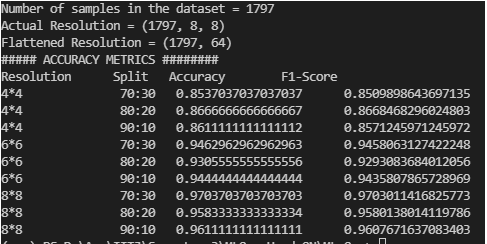
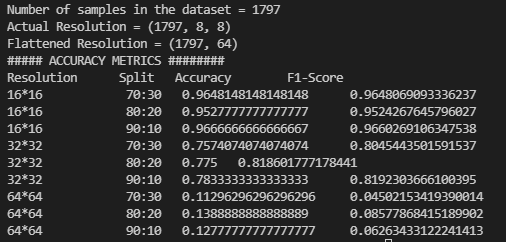
Made changes

Changed region(s): [[0.0, 0.0, 1.0, 1.0]]

diff --git a/quiz.py b/quiz.py
@@ -25,7 +25,7 @@ print("Flattened Resolution =", data.shape)
 #data4 = np.resize(digits.images, (1797, 4,4))
 #print(data4.shape)
 
-resolution = [4,6,8]
+resolution = [16, 32, 64]
 splits = [0.7,0.8,0.9]
 accuracy = []
 f1sc = []
@@ -71,12 +71,12 @@ for res in resolution:
             sp = "80:20"
         else:
             sp="90:10"
-        if res == 4:
-            re = "4*4"
-        elif res == 6:
-            re = "6*6"
+        if res == 16:
+            re = "16*16"
+        elif res == 32:
+            re = "32*32"
         else:
-            re = "8*8"
+            re = "64*64"
         print(re,"\t\t",sp,"\t",accuracy[i],"\t",f1sc[i])
         i+=1 
         

diff --git a/README.md b/README.md
@@ -5,3 +5,8 @@ Submitted by: Anubhooti Jain (M20CS052)
 Accuracy table after running the code (quiz.py file)
 
 ![my-result-1](/results/table.png)
+
+Observations -
+1. For the resolution 16*16 and 32*32 we still have decent results. But for 64*64 the accuracy drops significantly. This aligns with the fact that resizing an image of 8*8 to 64*64 pixelates the image too much, probably destroying the information the pixel contains. 
+
+2. Another observation is that, as image resolution increases, the accuracy decreases. It follows the same reasoning as 1. 
